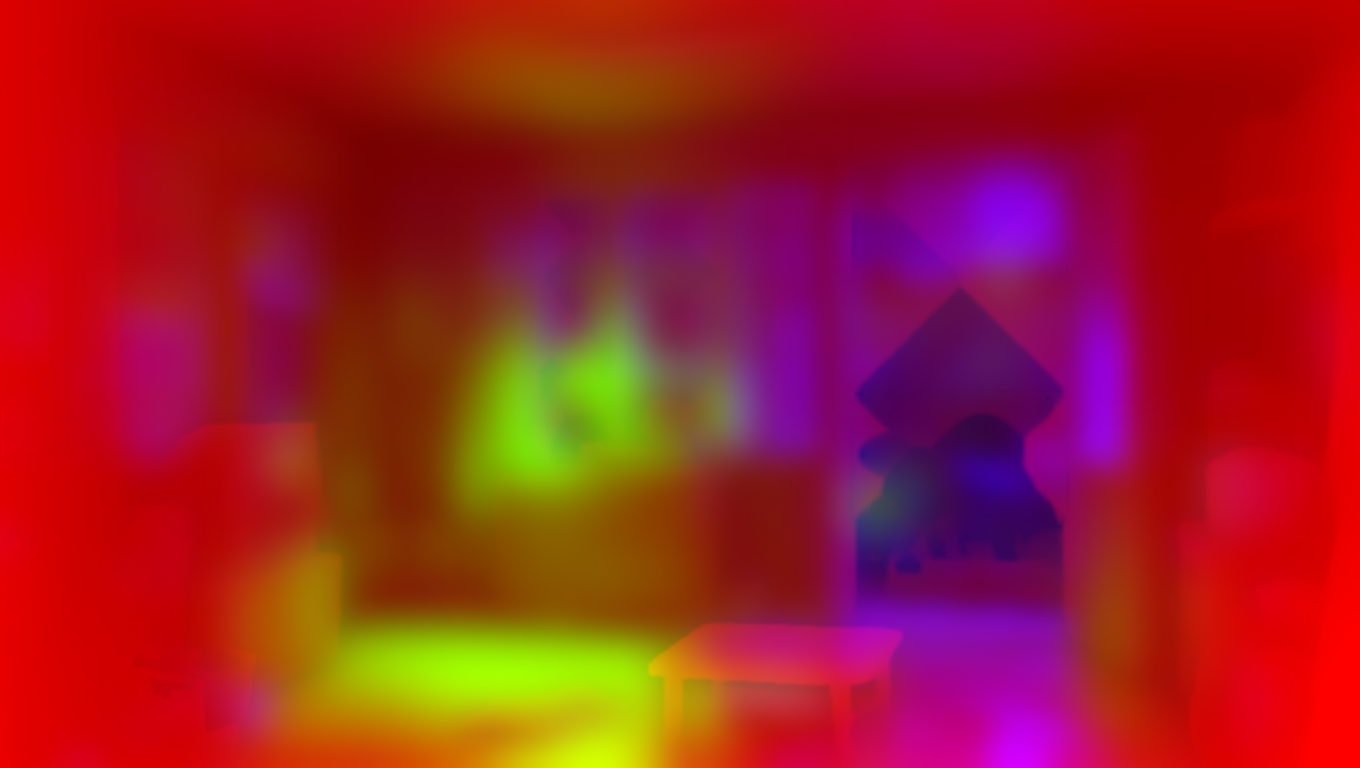
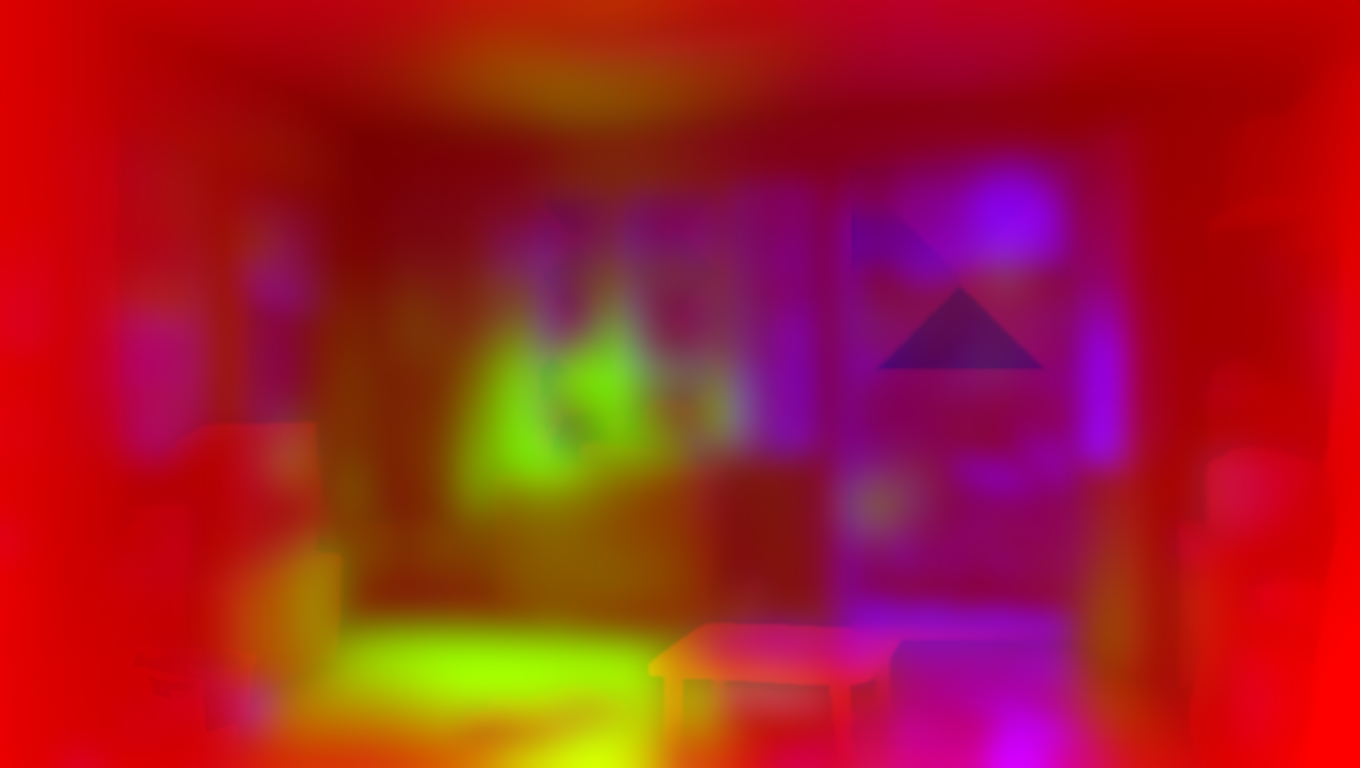
Korea: flatten depth map on balcony so railing doesn't warp with parallax
Claude-Session: https://claude.ai/code/session_01WmePPEVtycNtDwciTC66yT

Changed region(s): [[0.6176, 0.4688, 0.8029, 0.8438]]

diff --git a/public/index.html b/public/index.html
@@ -465,7 +465,7 @@ function setVid(key){const V=VIDS[key];if(vidKey===key&&vidEl)return;if(vidEl){v
   v.addEventListener('playing',()=>{if(vidEl===v)U.uVidOn.value=1},{once:true});const go=()=>v.play().catch(()=>{});go();addEventListener('pointerdown',go,{once:true})}
 const HI4K={room:1,dacha:1,ca:1,korea:1,jp:1,china:1,sea:1,india:1,usa:1,latam:1};const HIRES=(()=>{try{return Math.max(screen.width,screen.height)*(window.devicePixelRatio||1)>=2400}catch(e){return false}})();
 const f4k=(key,n)=>(HIRES&&HI4K[key]&&!LAB&&renderer.capabilities.maxTextureSize>=4096&&/^(plate_|out_)/.test(n))?n.replace('.jpg','_4k.jpg'):n;
-function texFor(key){if(!cache.has(key))cache.set(key,Promise.all(FILES.map(n=>loadTex(((LAB&&LAB[key])||key)+'/'+f4k(key,n)+(/^(out_|mask|plate_|maps|cup_|shadow)/.test(n)?'?v=69':'')))).then(a=>Object.fromEntries(FILES.map((n,i)=>[n.split('.')[0],a[i]]))));return cache.get(key)}
+function texFor(key){if(!cache.has(key))cache.set(key,Promise.all(FILES.map(n=>loadTex(((LAB&&LAB[key])||key)+'/'+f4k(key,n)+(/^(out_|mask|plate_|maps|cup_|shadow)/.test(n)?'?v=70':'')))).then(a=>Object.fromEntries(FILES.map((n,i)=>[n.split('.')[0],a[i]]))));return cache.get(key)}
 function evict(keep){for(const [k,p] of cache)if(!keep.includes(k)){cache.delete(k);p.then(T=>Object.values(T).forEach(t=>t.dispose()))}}
 const tvCan=document.createElement('canvas');tvCan.width=128;tvCan.height=96;const tvCtx=tvCan.getContext('2d');
 const tTV=new THREE.CanvasTexture(tvCan);tTV.minFilter=THREE.LinearFilter;tTV.generateMipmaps=false;

diff --git a/public/lab.html b/public/lab.html
@@ -466,7 +466,7 @@ function setVid(key){const V=VIDS[key];if(vidKey===key&&vidEl)return;if(vidEl){v
   v.addEventListener('playing',()=>{if(vidEl===v)U.uVidOn.value=1},{once:true});const go=()=>v.play().catch(()=>{});go();addEventListener('pointerdown',go,{once:true})}
 const HI4K={room:1,dacha:1,ca:1,korea:1,jp:1,china:1,sea:1,india:1,usa:1,latam:1};const HIRES=(()=>{try{return Math.max(screen.width,screen.height)*(window.devicePixelRatio||1)>=2400}catch(e){return false}})();
 const f4k=(key,n)=>(HIRES&&HI4K[key]&&!LAB&&renderer.capabilities.maxTextureSize>=4096&&/^(plate_|out_)/.test(n))?n.replace('.jpg','_4k.jpg'):n;
-function texFor(key){if(!cache.has(key))cache.set(key,Promise.all(FILES.map(n=>loadTex(((LAB&&LAB[key])||key)+'/'+f4k(key,n)+(/^(out_|mask|plate_|maps|cup_|shadow)/.test(n)?'?v=69':'')))).then(a=>Object.fromEntries(FILES.map((n,i)=>[n.split('.')[0],a[i]]))));return cache.get(key)}
+function texFor(key){if(!cache.has(key))cache.set(key,Promise.all(FILES.map(n=>loadTex(((LAB&&LAB[key])||key)+'/'+f4k(key,n)+(/^(out_|mask|plate_|maps|cup_|shadow)/.test(n)?'?v=70':'')))).then(a=>Object.fromEntries(FILES.map((n,i)=>[n.split('.')[0],a[i]]))));return cache.get(key)}
 function evict(keep){for(const [k,p] of cache)if(!keep.includes(k)){cache.delete(k);p.then(T=>Object.values(T).forEach(t=>t.dispose()))}}
 const tvCan=document.createElement('canvas');tvCan.width=128;tvCan.height=96;const tvCtx=tvCan.getContext('2d');
 const tTV=new THREE.CanvasTexture(tvCan);tTV.minFilter=THREE.LinearFilter;tTV.generateMipmaps=false;
